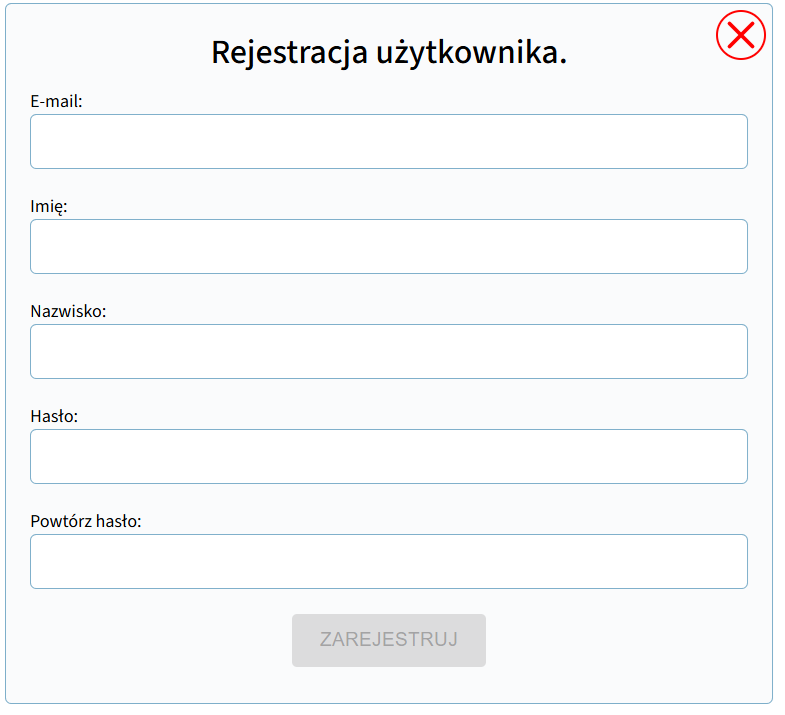
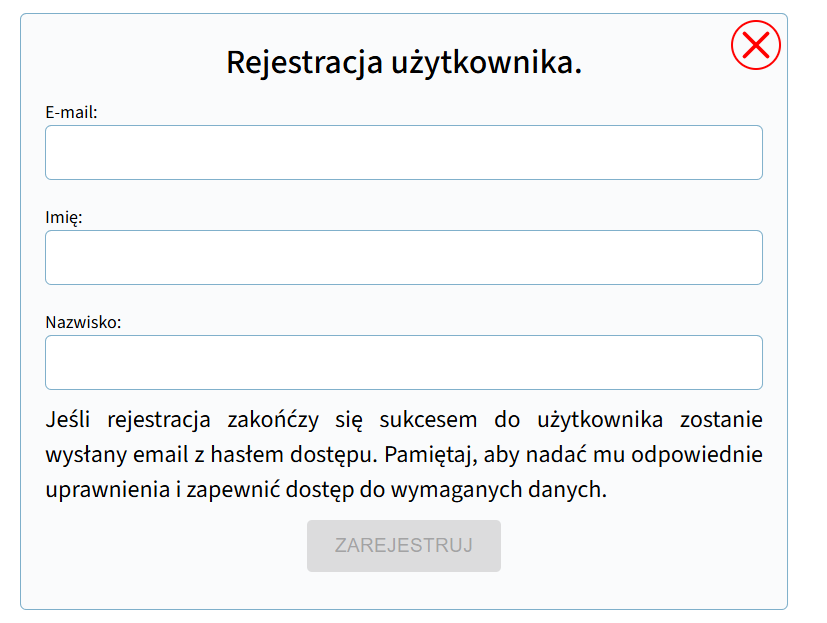
poprwiłaem kompnent rejestracji nowego użytkownika admi nie nadaje hasła przy tworzeniu usera, tylko system je sam generuje i wysła na maila

diff --git a/src/components/user/Register.js b/src/components/user/Register.js
@@ -21,34 +21,23 @@ const Register = () => {
     const [validUserlogin, setValidUserlogin] = useState(false);
     const [userFocus, setUserFocus] = useState(false);
 
-    const [password, setPassword] = useState('');
-    const [validPassword, setValidPassword] = useState(false);
-    const [passwordFocus, setPasswordFocus] = useState(false);
-
-    const [matchPassword, setMatchPassword] = useState('');
-    const [validMatchPassword, setValidMatchPassword] = useState(false);
-    const [matchPasswordFocus, setMatchPasswordFocus] = useState(false);
-
-
     const [errMsg, setErrMsg] = useState('');
     const [success, setSuccess] = useState('');
 
     const USER_REGEX = /^[^\s@]+@[^\s@]+\.[^\s@]+$/;
-    const PASSWORD_REGEX = /^(?=.*[a-z])(?=.*[A-Z])(?=.*[0-9])(?=.*[!@#$%]).{8,24}$/;
 
     const handleSubmit = async (e) => {
         e.preventDefault();
         try {
             const v1 = USER_REGEX.test(userlogin);
-            const v2 = PASSWORD_REGEX.test(password);
 
-            if (!v1 || !v2) {
+            if (!v1) {
                 setErrMsg("Invalid entry");
                 return;
             }
             const result = await axiosPrivateIntercept.post('/user/register',
 
-                JSON.stringify({ userlogin, password, username, usersurname }),
+                JSON.stringify({ userlogin, username, usersurname }),
                 {
                     headers: { 'Content-Type': 'application/json' },
                     withCredentials: true,
@@ -56,8 +45,6 @@ const Register = () => {
             );
             setSuccess(result.data);
             setUserlogin('');
-            setPassword('');
-            setMatchPassword('');
 
         }
         catch (err) {
@@ -88,16 +75,10 @@ const Register = () => {
         setValidUserlogin(result);
     }, [userlogin]);
 
-    useEffect(() => {
-        const result = PASSWORD_REGEX.test(password);
-        setValidPassword(result);
-        const match = password === matchPassword;
-        setValidMatchPassword(match);
-    }, [password, matchPassword]);
 
     useEffect(() => {
         setErrMsg('');
-    }, [userlogin, password, matchPassword]);
+    }, [userlogin]);
 
     return (
         <>
@@ -174,56 +155,11 @@ const Register = () => {
                             onFocus={() => setUserFocus(true)}
                             onBlur={() => setUserFocus(false)}
                         />
-
-
-                        <label htmlFor="password" className="register__container-title">
-                            Hasło:
-                            <span className={validPassword ? "register__container-title--valid" : "register__container-title--hide"}><FontAwesomeIcon icon={faCheck} /></span>
-                            <span className={validPassword || !password ? "register__container-title--hide" : "register__container-title--invalid"}><FontAwesomeIcon icon={faTimes} /></span>
-                        </label>
-                        <input
-                            className="register__container-text"
-                            type="password"
-                            id="password"
-                            autoComplete="off"
-                            name="uniqueNameForThisField" //wyłącza w chrome autouzupełnianie 
-                            value={password}
-                            onChange={(e) => setPassword(e.target.value)}
-                            required
-                            onFocus={() => setPasswordFocus(true)}
-                            onBlur={() => setPasswordFocus(false)}
-                        />
-                        {passwordFocus && !validPassword && <p className="register__container-instructions">
-                            <FontAwesomeIcon icon={faInfoCircle} />
-                            od 8 od 24 znaków.<br />
-                            Musi zawierać małe i duże litery, cyfrę i znak specjalny.<br />
-                            Dostępne znaki specjalne: <span aria-label="exclamation mark">!</span> <span aria-label="at symbol">@</span> <span aria-label="hashtag">#</span> <span aria-label="dollar sign">$</span> <span aria-label="percent">%</span>
-                        </p>}
-                        <label htmlFor="confirm_password" className="register__container-title">
-                            Powtórz hasło:
-                            <span className={validMatchPassword && matchPassword ? "register__container-title--valid" : "register__container-title--hide"}><FontAwesomeIcon icon={faCheck} /></span>
-                            <span className={validMatchPassword || !matchPassword ? "register__container-title--hide" : "register__container-title--invalid"}><FontAwesomeIcon icon={faTimes} /></span>
-                        </label>
-                        <input
-                            className="register__container-text"
-                            type="password"
-                            id="confirm_password"
-                            autoComplete="off"
-                            name="uniqueNameForThisField" //wyłącza w chrome autouzupełnianie 
-                            value={matchPassword}
-                            onChange={(e) => setMatchPassword(e.target.value)}
-                            required
-                            onFocus={() => setMatchPasswordFocus(true)}
-                            onBlur={() => setMatchPasswordFocus(false)}
-                        />
-                        {matchPasswordFocus && !validMatchPassword && <p className="register__container-instructions">
-                            <FontAwesomeIcon icon={faInfoCircle} />
-                            Hasła musza być takie same.
-                        </p>}
+                        <span className="register-info">Jeśli rejestracja zakońćzy się sukcesem do użytkownika zostanie wysłany email z hasłem dostępu. Pamiętaj, aby nadać mu odpowiednie uprawnienia i zapewnić dostęp do wymaganych danych.</span>
                         <Button
                             variant='contained'
                             type="submit"
-                            disabled={!validUserlogin || !validPassword || !validMatchPassword}
+                            disabled={!validUserlogin || !username || !usersurname}
                             size='large'
                         >
                             Zarejestruj

diff --git a/src/components/user/Register.css b/src/components/user/Register.css
@@ -116,3 +116,8 @@
     /* width: 50%; */
     margin: 10px auto;
 }
+
+.register-info {
+    word-break: break-word;
+    text-align: justify;
+}
